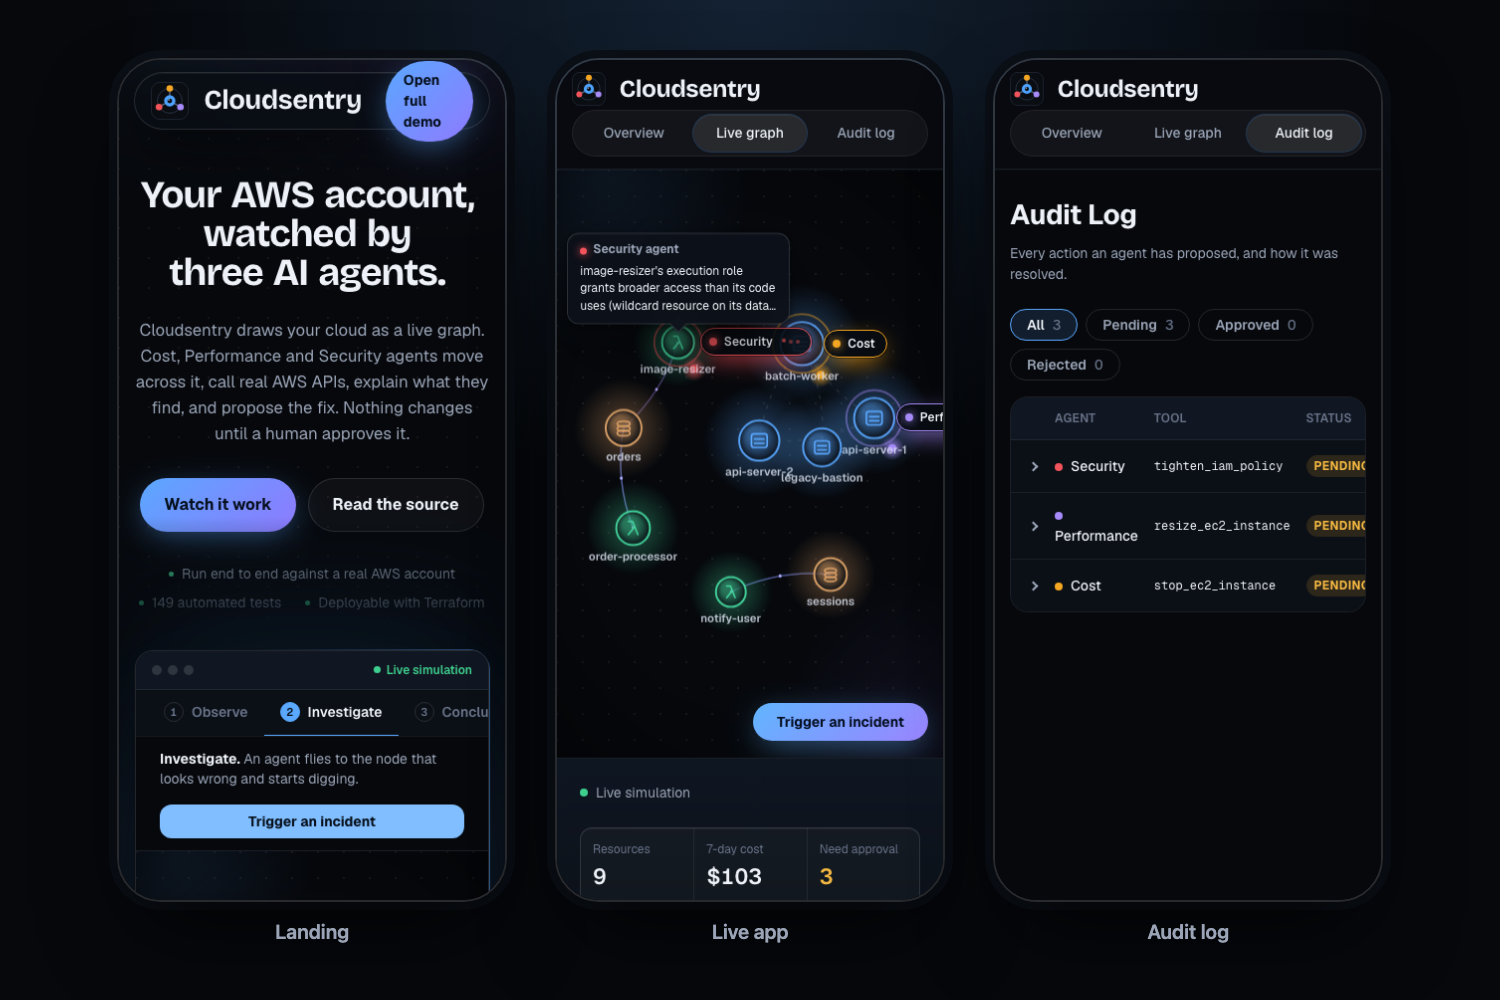
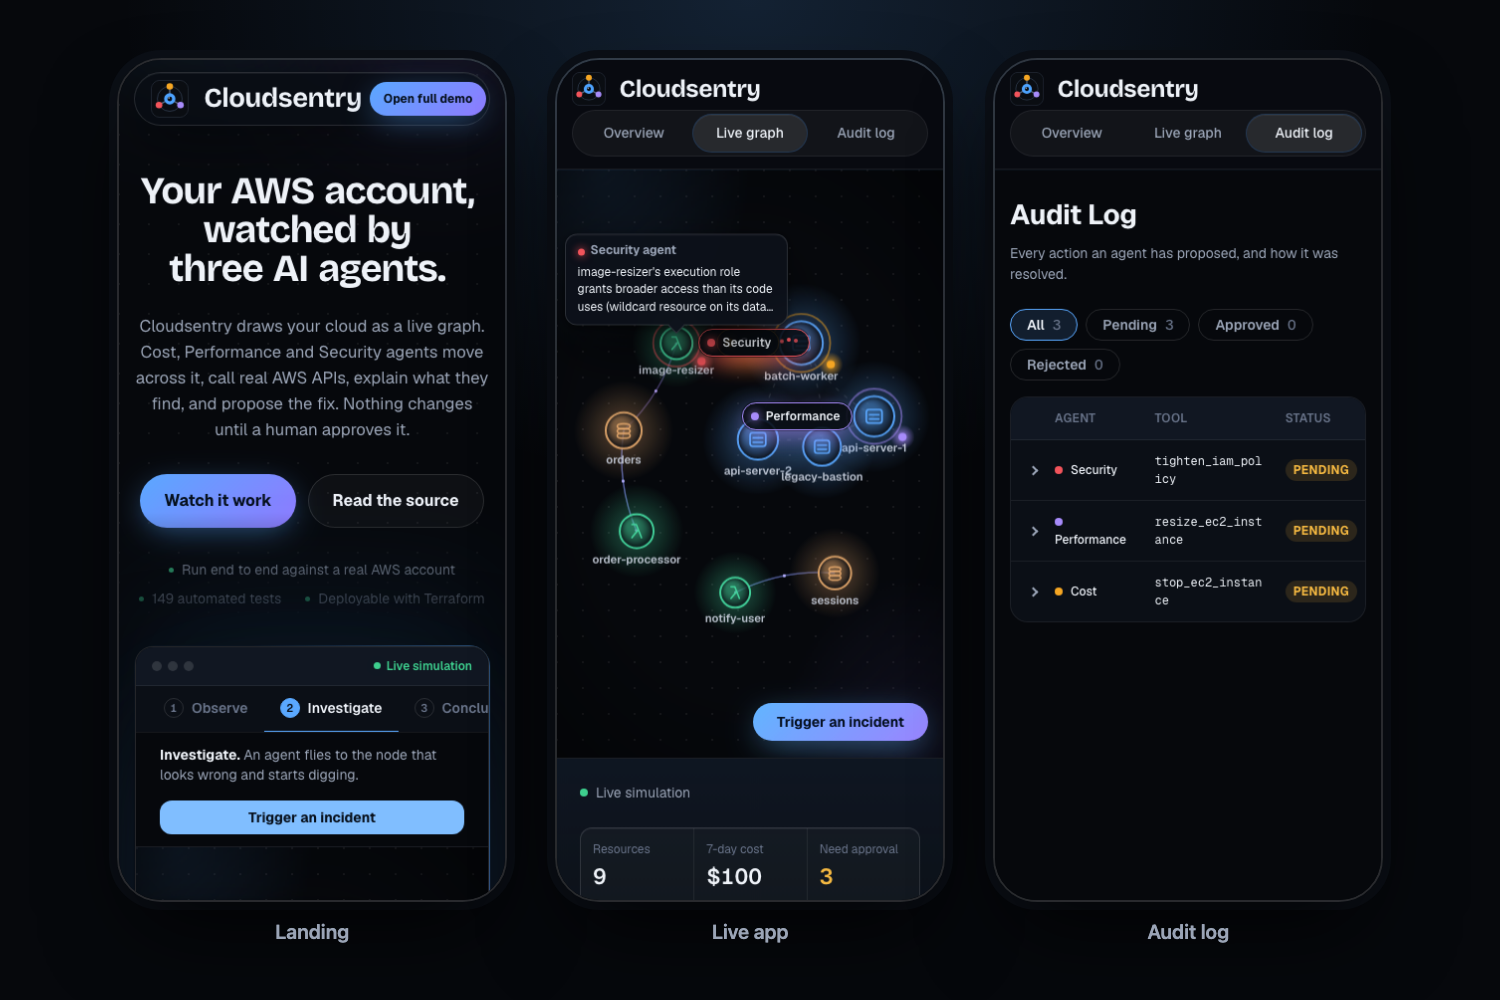
fix: fit landing nav on 360px phones; refresh phone screenshots

diff --git a/frontend/components/Logo.module.css b/frontend/components/Logo.module.css
@@ -10,3 +10,14 @@
   letter-spacing: -0.02em;
   line-height: 1;
 }
+
+/* Very small phones: tighten the lockup so it never pushes the nav off-screen. */
+@media (max-width: 400px) {
+  .word {
+    font-size: 21px !important;
+  }
+
+  .logo {
+    gap: 8px !important;
+  }
+}
